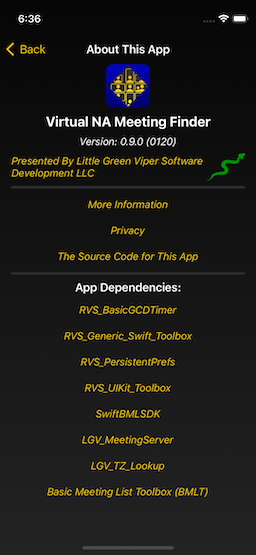
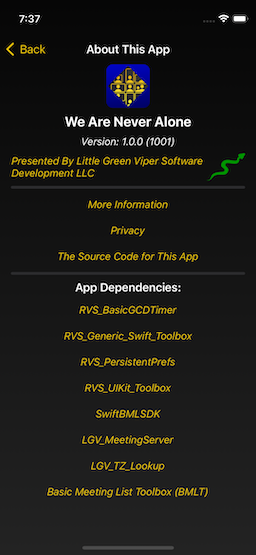
Changed the app name to satisfy Apple. Fixed a bug, where the Settings Screen switch was not being saved in the prefs.

Changed region(s): [[0.1875, 0.1838, 0.8125, 0.2757], [0.125, 0.0306, 0.1562, 0.0613], [0.0625, 0.0306, 0.0938, 0.0613]]

diff --git a/Sources/VirtualMeetingFinder/ViewControllers/Screens/SettingsScreen/VMF_SettingsViewController.swift b/Sources/VirtualMeetingFinder/ViewControllers/Screens/SettingsScreen/VMF_SettingsViewController.swift
@@ -82,28 +82,15 @@ extension VMF_SettingsViewController {
      /**
       Called when either the label or switch to filter Service meetings is hit.
       
-      - parameter inSender: The gesture recognizer or switch.
+      - parameter: ignored
       */
-     @IBAction func filterServiceMeetingsHit(_ inSender: NSObjectProtocol) {
-          if let switcher = inSender as? UISwitch {   // If the switch, we execute it.
-               VMF_AppDelegate.prefs.excludeServiceMeetings = switcher.isOn
-               guard let searchController = VMF_AppDelegate.mainScreenController,
-                     let tableDisplayController = searchController.tableDisplayController
-               else { return }
-               
-               let dayIndex = tableDisplayController.dayIndex
-               let timeIndex = tableDisplayController.timeIndex
-               guard let time = searchController.getTimeOf(dayIndex: dayIndex, timeIndex: timeIndex) else { return }
-               searchController.reorganizeMeetings()
-               searchController.openTo(dayIndex: dayIndex, time: time)
-          } else if inSender is UITapGestureRecognizer {    // If the label, we toggle the switch, and send the value changed message (which calls us again).
-               selectionHaptic()
-               let newValue = !(filterServiceMeetingsSwitch?.isOn ?? true)
-               filterServiceMeetingsSwitch?.setOn(newValue, animated: true)
-               filterServiceMeetingsSwitch?.isEnabled = false
-               filterServiceMeetingsSwitch?.sendActions(for: .valueChanged)
-               filterServiceMeetingsSwitch?.isEnabled = true
-          }
+     @IBAction func filterServiceMeetingsHit(_: Any) {
+          selectionHaptic()
+          let newValue = !(filterServiceMeetingsSwitch?.isOn ?? true)
+          filterServiceMeetingsSwitch?.setOn(newValue, animated: true)
+          filterServiceMeetingsSwitch?.isEnabled = false
+          VMF_AppDelegate.prefs.excludeServiceMeetings = newValue
+          filterServiceMeetingsSwitch?.isEnabled = true
      }
 }
 

diff --git a/Sources/VirtualMeetingFinder/Support/VMF_Persistent_Prefs.swift b/Sources/VirtualMeetingFinder/Support/VMF_Persistent_Prefs.swift
@@ -26,7 +26,7 @@ import RVS_Persistent_Prefs
 /**
  This stores our various parameters.
  */
-class VMF_Prefs: RVS_PersistentPrefs {
+class VMF_Persistent_Prefs: RVS_PersistentPrefs {
      /* ################################################################################################################################## */
      // MARK: RVS_PersistentPrefs Conformance
      /* ################################################################################################################################## */
@@ -69,7 +69,7 @@ class VMF_Prefs: RVS_PersistentPrefs {
 /* ###################################################################################################################################### */
 // MARK: Public Computed Properties
 /* ###################################################################################################################################### */
-extension VMF_Prefs {
+extension VMF_Persistent_Prefs {
      /* ################################################################## */
      /**
       This saves our meeting attendance, as a list of meeting IDs.

diff --git a/Sources/VirtualMeetingFinder/MainApp/VMF_AppDelegate.swift b/Sources/VirtualMeetingFinder/MainApp/VMF_AppDelegate.swift
@@ -78,7 +78,7 @@ class VMF_AppDelegate: UIResponder {
      /**
       This is the singleton for the prefs.
       */
-     static var prefs = VMF_Prefs()
+     static var prefs = VMF_Persistent_Prefs()
 }
 
 /* ###################################################################################################################################### */

diff --git a/Sources/VirtualMeetingFinder/VirtualMeetingFinder.docc/VirtualMeetingFinder.md b/Sources/VirtualMeetingFinder/VirtualMeetingFinder.docc/VirtualMeetingFinder.md
@@ -1,4 +1,4 @@
-# ``Virtual_NA_Meeting_Finder``
+# ``We_Are_Never_Alone``
 
 An app that makes it simple to discover and attend virtual (and hybrid) NA meetings.
 
@@ -48,7 +48,7 @@ This is a screen that is brought in from the Main Screen, that allows the user t
 
 #### The About This App Screen
 
-![About Screen](fig04.png)
+![About Screen](fig05.png)
 
 This is another screen that is brought in from the Settings Screen, that has information about the app, such as its specific version, and links to dependencies.
 
